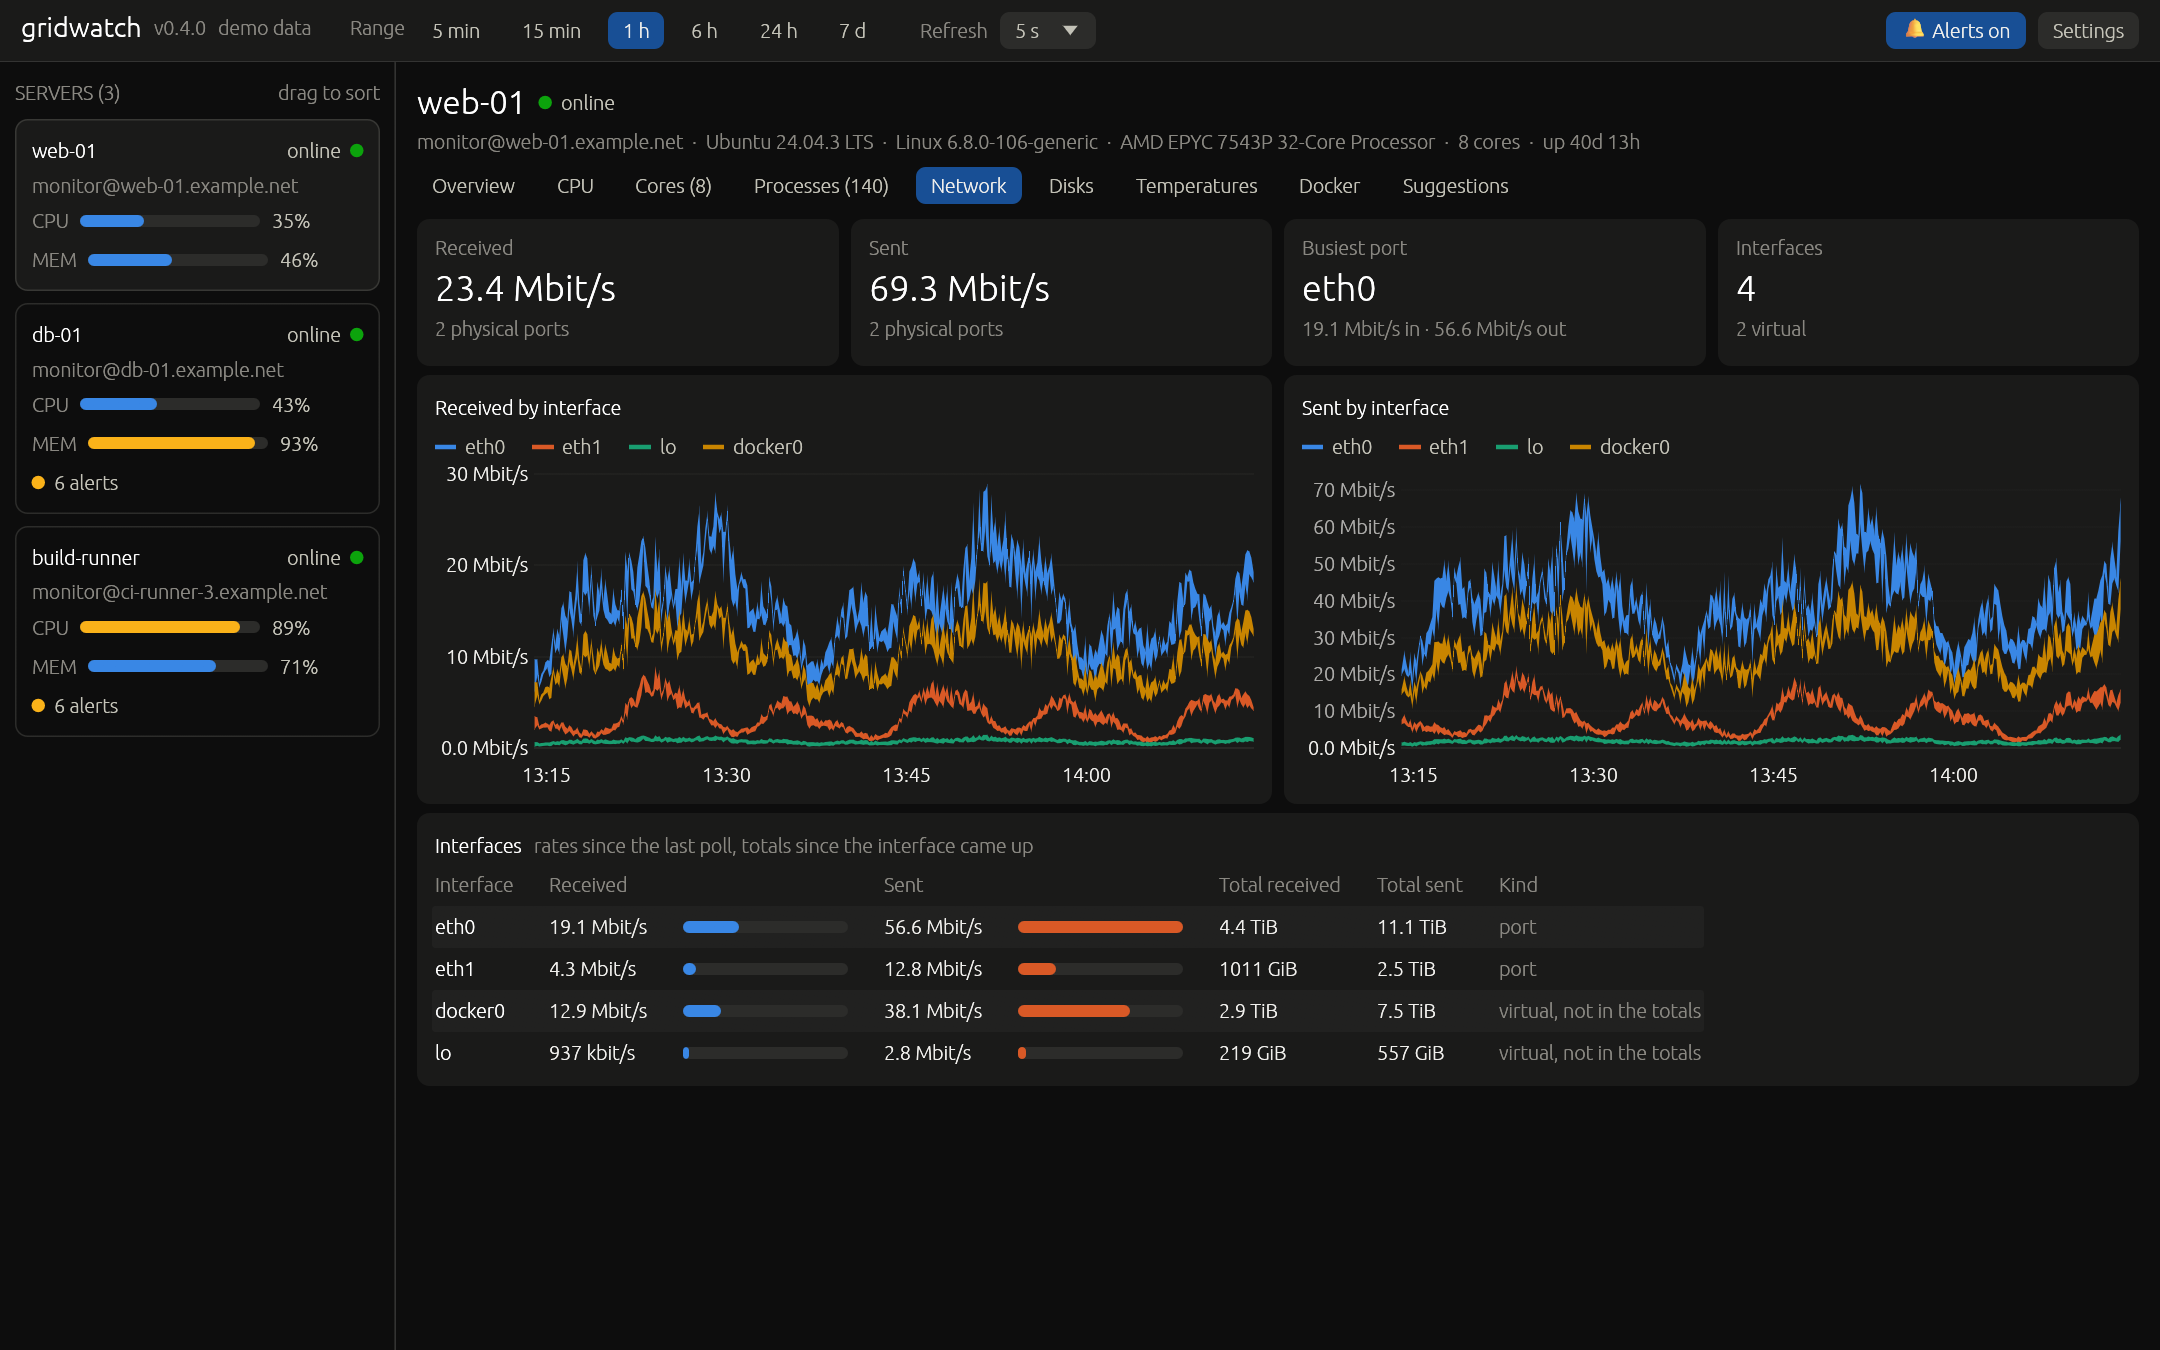
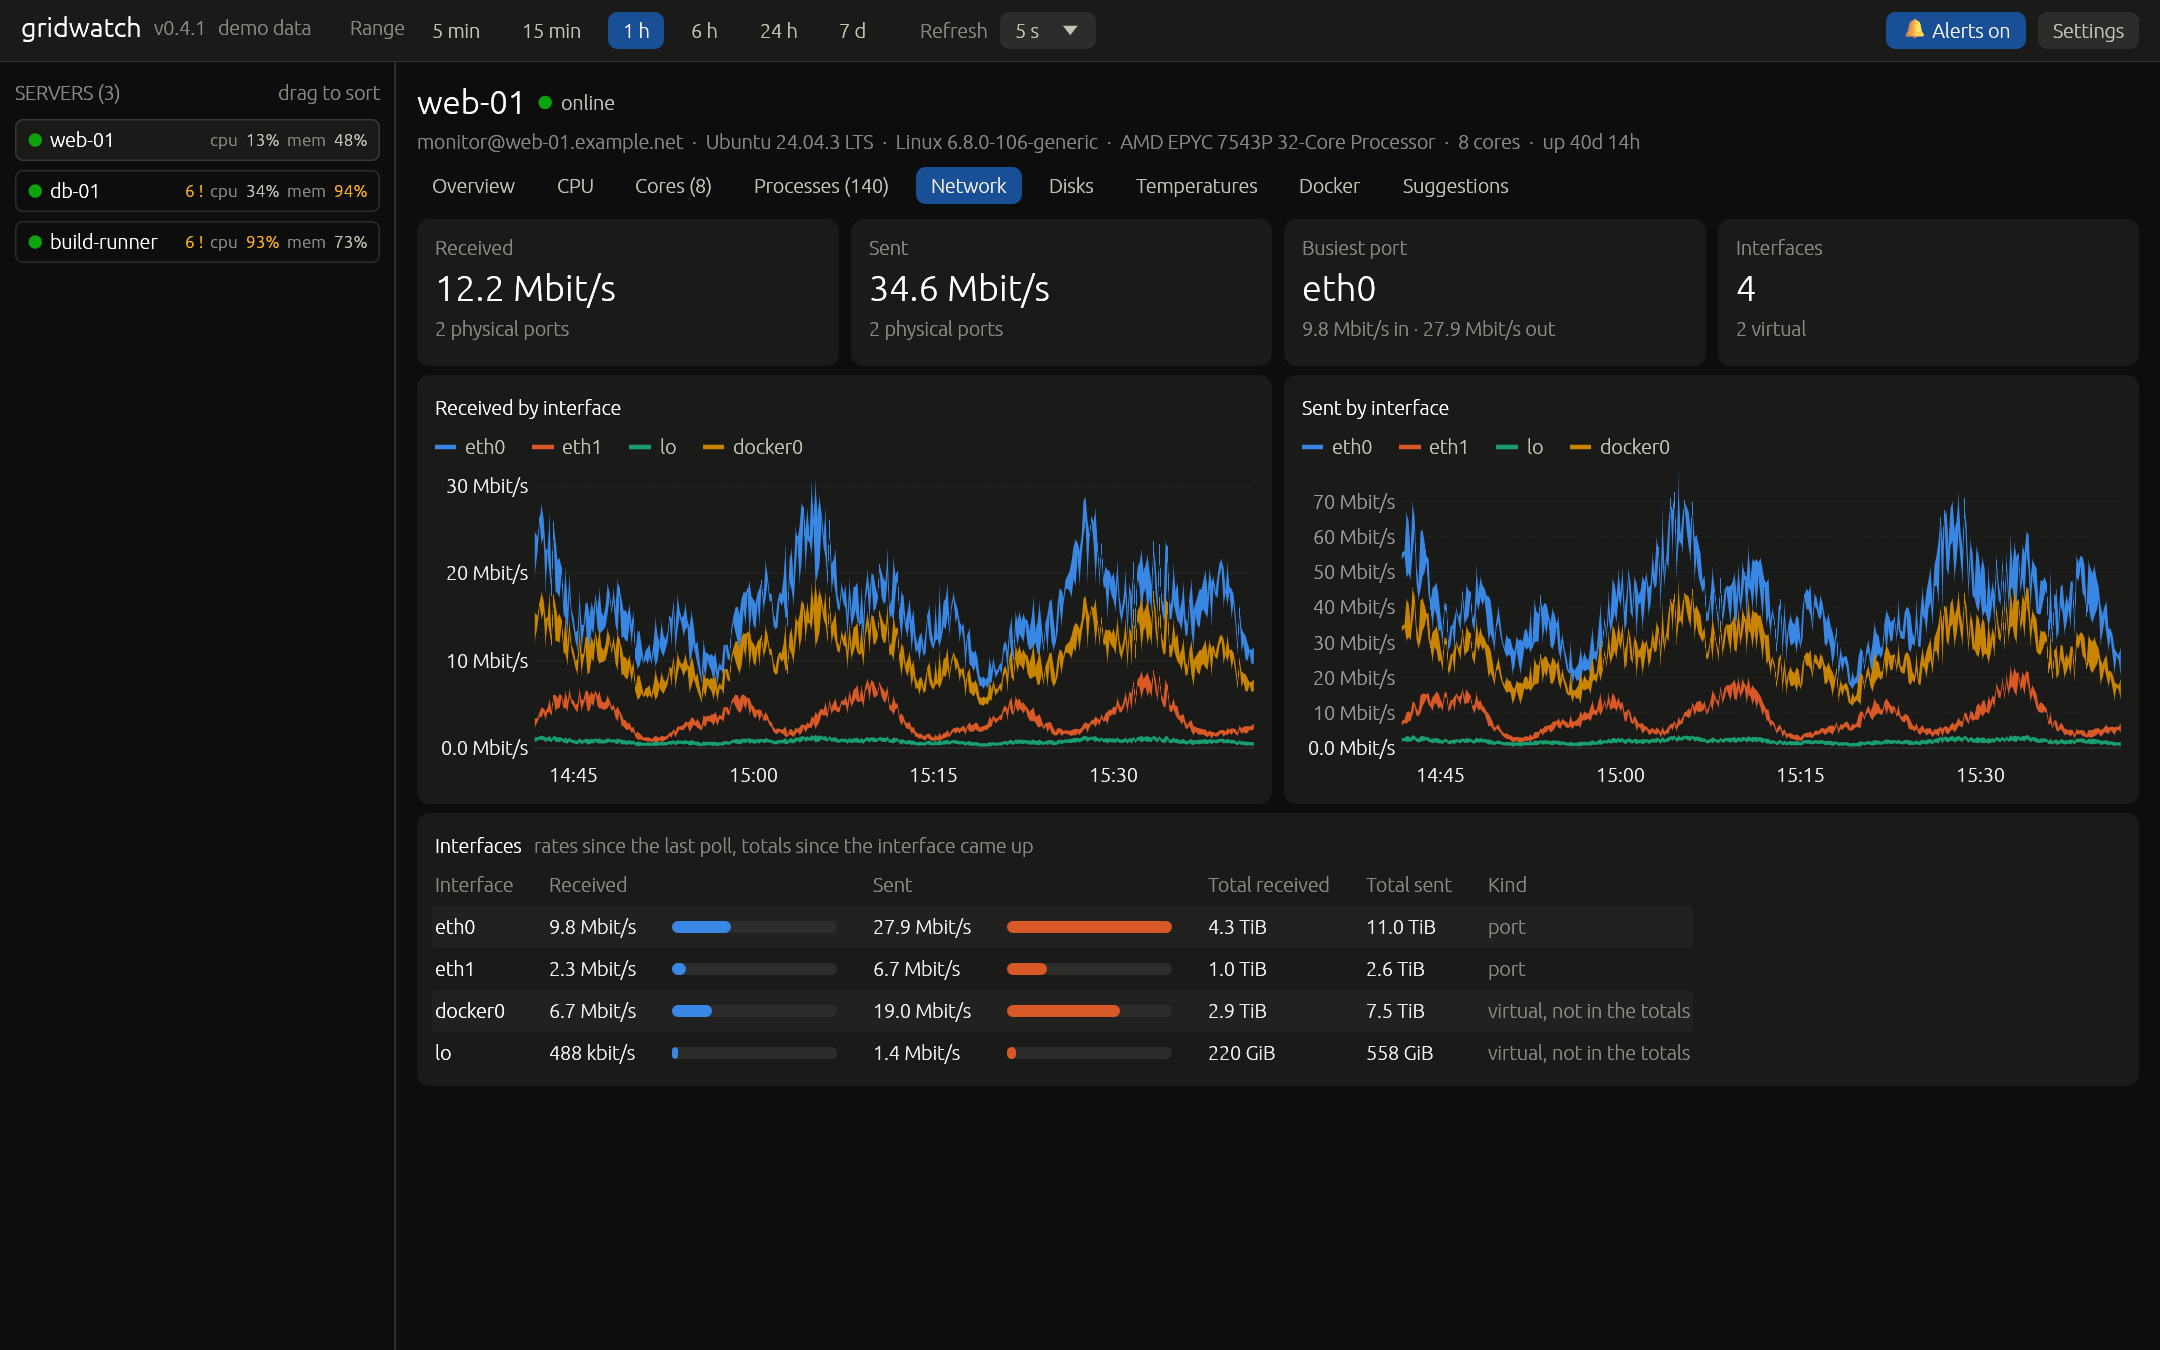
Show one line per server in the server list (0.4.1)
State, name, alerts, CPU and memory share a single row; the address
moves into the tooltip. Also pin line endings to LF.

diff --git a/src/app.rs b/src/app.rs
@@ -618,40 +618,55 @@ Click to switch on or off.",
                 let response = Frame::new()
                     .fill(fill)
                     .stroke(egui::Stroke::new(1.0, if selected { w::AXIS } else { w::GRID }))
-                    .corner_radius(CornerRadius::same(8))
-                    .inner_margin(Margin::same(10))
+                    .corner_radius(CornerRadius::same(5))
+                    .inner_margin(Margin::symmetric(8, 3))
                     .show(ui, |ui| {
+                        // One line per server, so that many of them fit without scrolling:
+                        // state and name on the left, CPU and memory on the right.
                         ui.set_width(ui.available_width());
+                        ui.spacing_mut().item_spacing.x = 5.0;
+                        let (color, label) = conn_status(&state);
                         ui.horizontal(|ui| {
-                            ui.label(RichText::new(&server.cfg.name).strong());
+                            let (dot, _) = ui.allocate_exact_size(egui::Vec2::splat(9.0), Sense::hover());
+                            ui.painter().circle_filled(dot.center(), 4.5, color);
                             ui.with_layout(Layout::right_to_left(Align::Center), |ui| {
-                                let (color, label) = conn_status(&state);
-                                w::status(ui, color, label);
+                                let small = |text: String, color: Color32| RichText::new(text).size(11.5).color(color);
+                                match &state.latest {
+                                    Some(s) if matches!(state.conn, ConnState::Online) => {
+                                        let mem = s.mem_used as f32 / s.mem_total.max(1) as f32 * 100.0;
+                                        for (name, value) in [("mem", mem), ("cpu", s.cpu.total)] {
+                                            let level = w::level(value, 85.0, 95.0).map_or(w::TEXT_SECONDARY, |l| l.0);
+                                            ui.label(small(format!("{value:.0}%"), level));
+                                            ui.label(small(name.to_string(), w::MUTED));
+                                        }
+                                    }
+                                    // Not online: the state in words instead of numbers.
+                                    _ => {
+                                        ui.label(small(label.to_string(), w::TEXT_SECONDARY));
+                                    }
+                                }
+                                if alerts > 0 {
+                                    ui.label(small(format!("{alerts} !"), w::WARNING));
+                                }
+                                // The name gets what is left and is cut off if it does not fit.
+                                ui.with_layout(Layout::left_to_right(Align::Center), |ui| {
+                                    ui.add(egui::Label::new(RichText::new(&server.cfg.name).strong()).truncate());
+                                });
                             });
                         });
-                        ui.label(w::muted(server.cfg.address()));
-                        if let Some(s) = &state.latest {
-                            let mem = s.mem_used as f32 / s.mem_total.max(1) as f32;
-                            for (label, fraction) in [("CPU", s.cpu.total / 100.0), ("MEM", mem)] {
-                                ui.horizontal(|ui| {
-                                    ui.label(w::muted(label));
-                                    w::meter(ui, fraction, 120.0);
-                                    ui.label(
-                                        RichText::new(format!("{:.0}%", fraction * 100.0)).color(w::TEXT_SECONDARY),
-                                    );
-                                });
-                            }
-                            if alerts > 0 {
-                                w::status(
-                                    ui,
-                                    w::WARNING,
-                                    &format!("{alerts} alert{}", if alerts == 1 { "" } else { "s" }),
-                                );
-                            }
-                        }
                     })
                     .response
-                    .interact(Sense::click_and_drag());
+                    .interact(Sense::click_and_drag())
+                    .on_hover_text(format!(
+                        "{}\n{}{}",
+                        server.cfg.address(),
+                        conn_status(&state).1,
+                        match alerts {
+                            0 => String::new(),
+                            1 => ", 1 alert".to_string(),
+                            n => format!(", {n} alerts"),
+                        }
+                    ));
                 cards.push(response.rect);
                 if response.clicked() {
                     clicked = Some(i);
@@ -659,7 +674,6 @@ Click to switch on or off.",
                 if response.drag_started() {
                     self.dragging = Some(i);
                 }
-                ui.add_space(2.0);
             }
 
             // While a card is dragged, a line shows where it would land.

diff --git a/CHANGELOG.md b/CHANGELOG.md
@@ -4,6 +4,11 @@ The version is raised with every change that reaches users: the last number for 
 the middle number for a new feature. It is set in `Cargo.toml` and shown in the top bar
 and by `gridwatch --version`. A tag `v<version>` on GitHub builds and publishes the release.
 
+## 0.4.1
+
+- The server list is compact: one line per server instead of five, so many servers fit without
+  scrolling. The address, the state and the number of alerts appear when the pointer rests on a server.
+
 ## 0.4.0
 
 - The GPU tab now comes right after the overview, before CPU.
